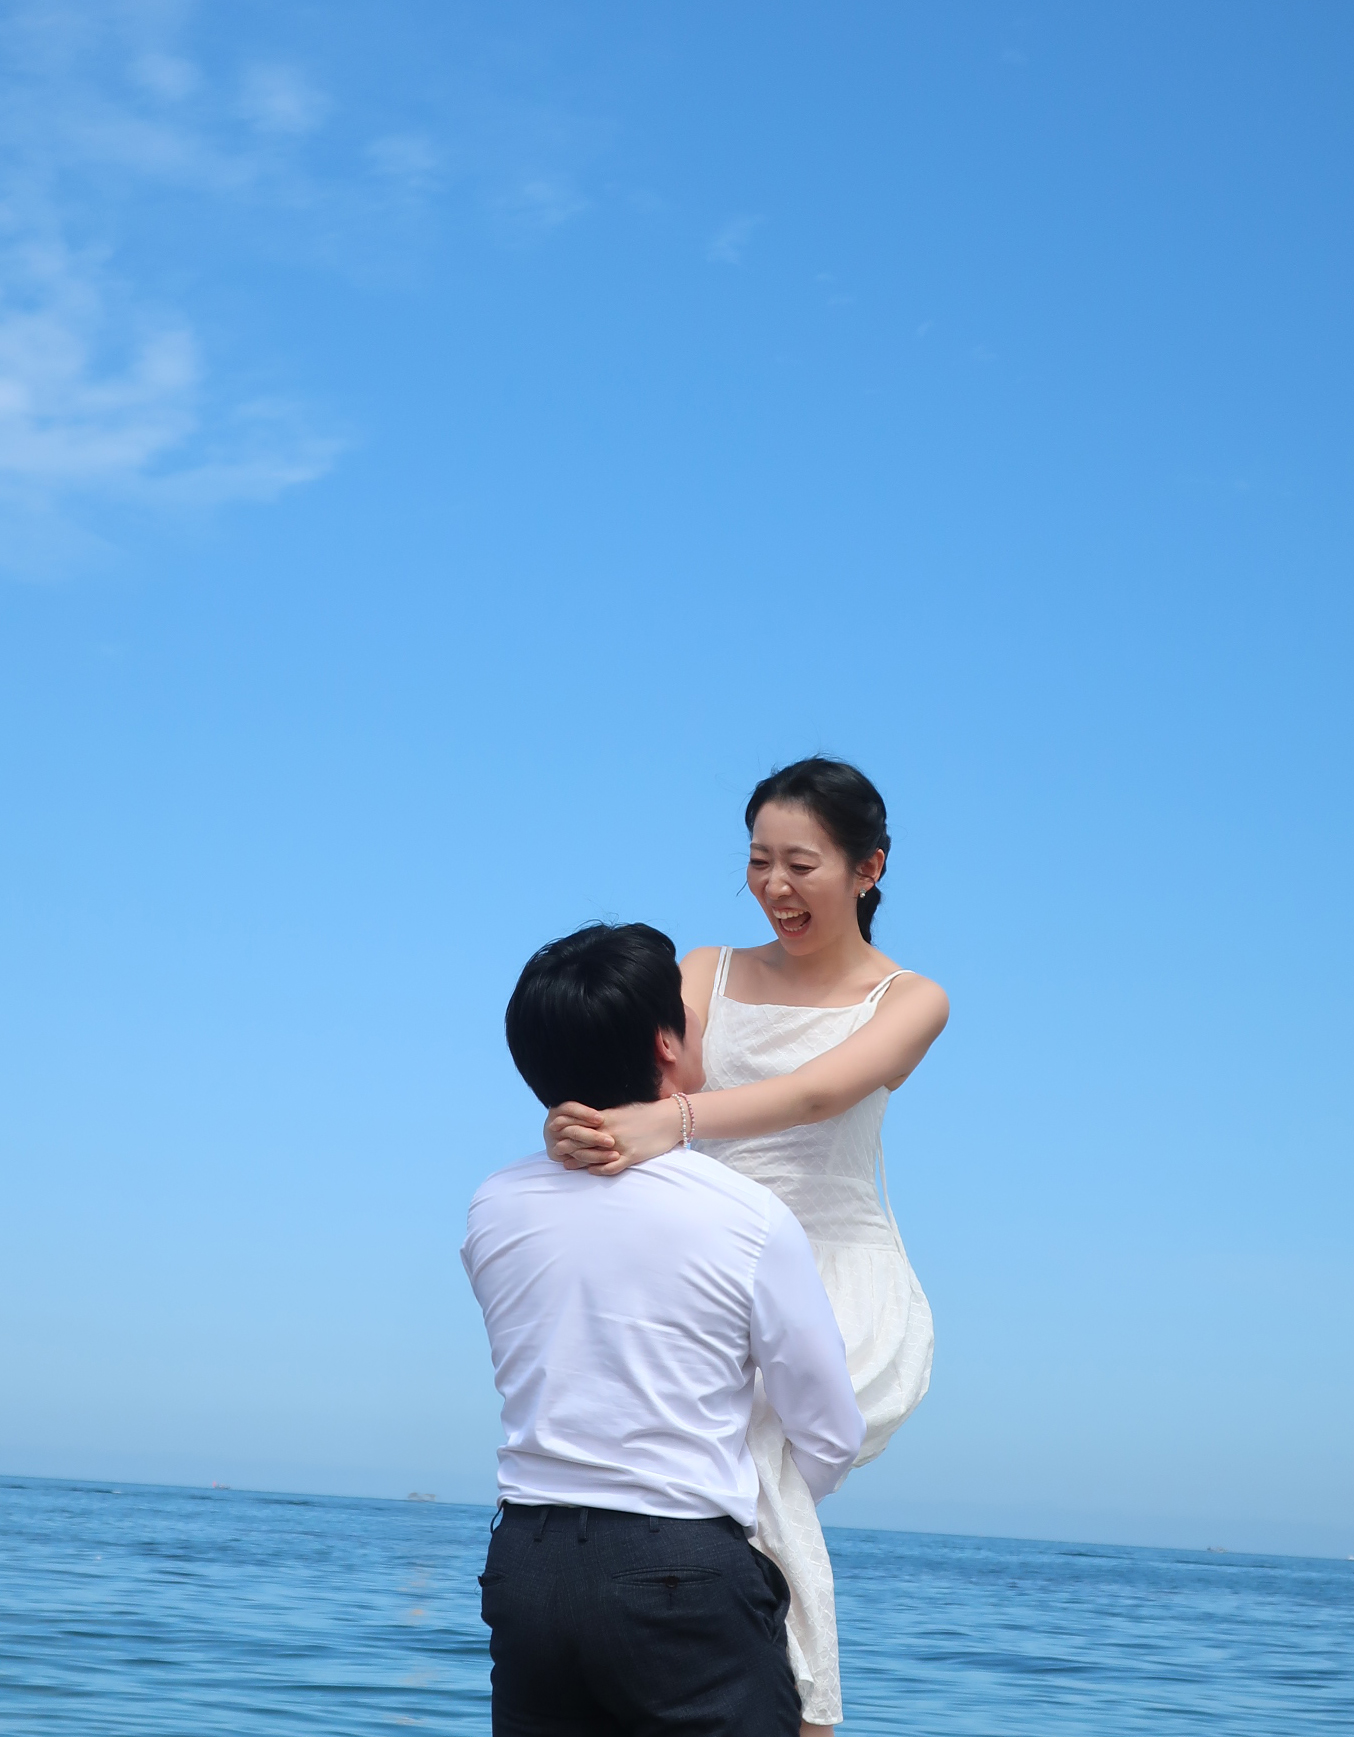
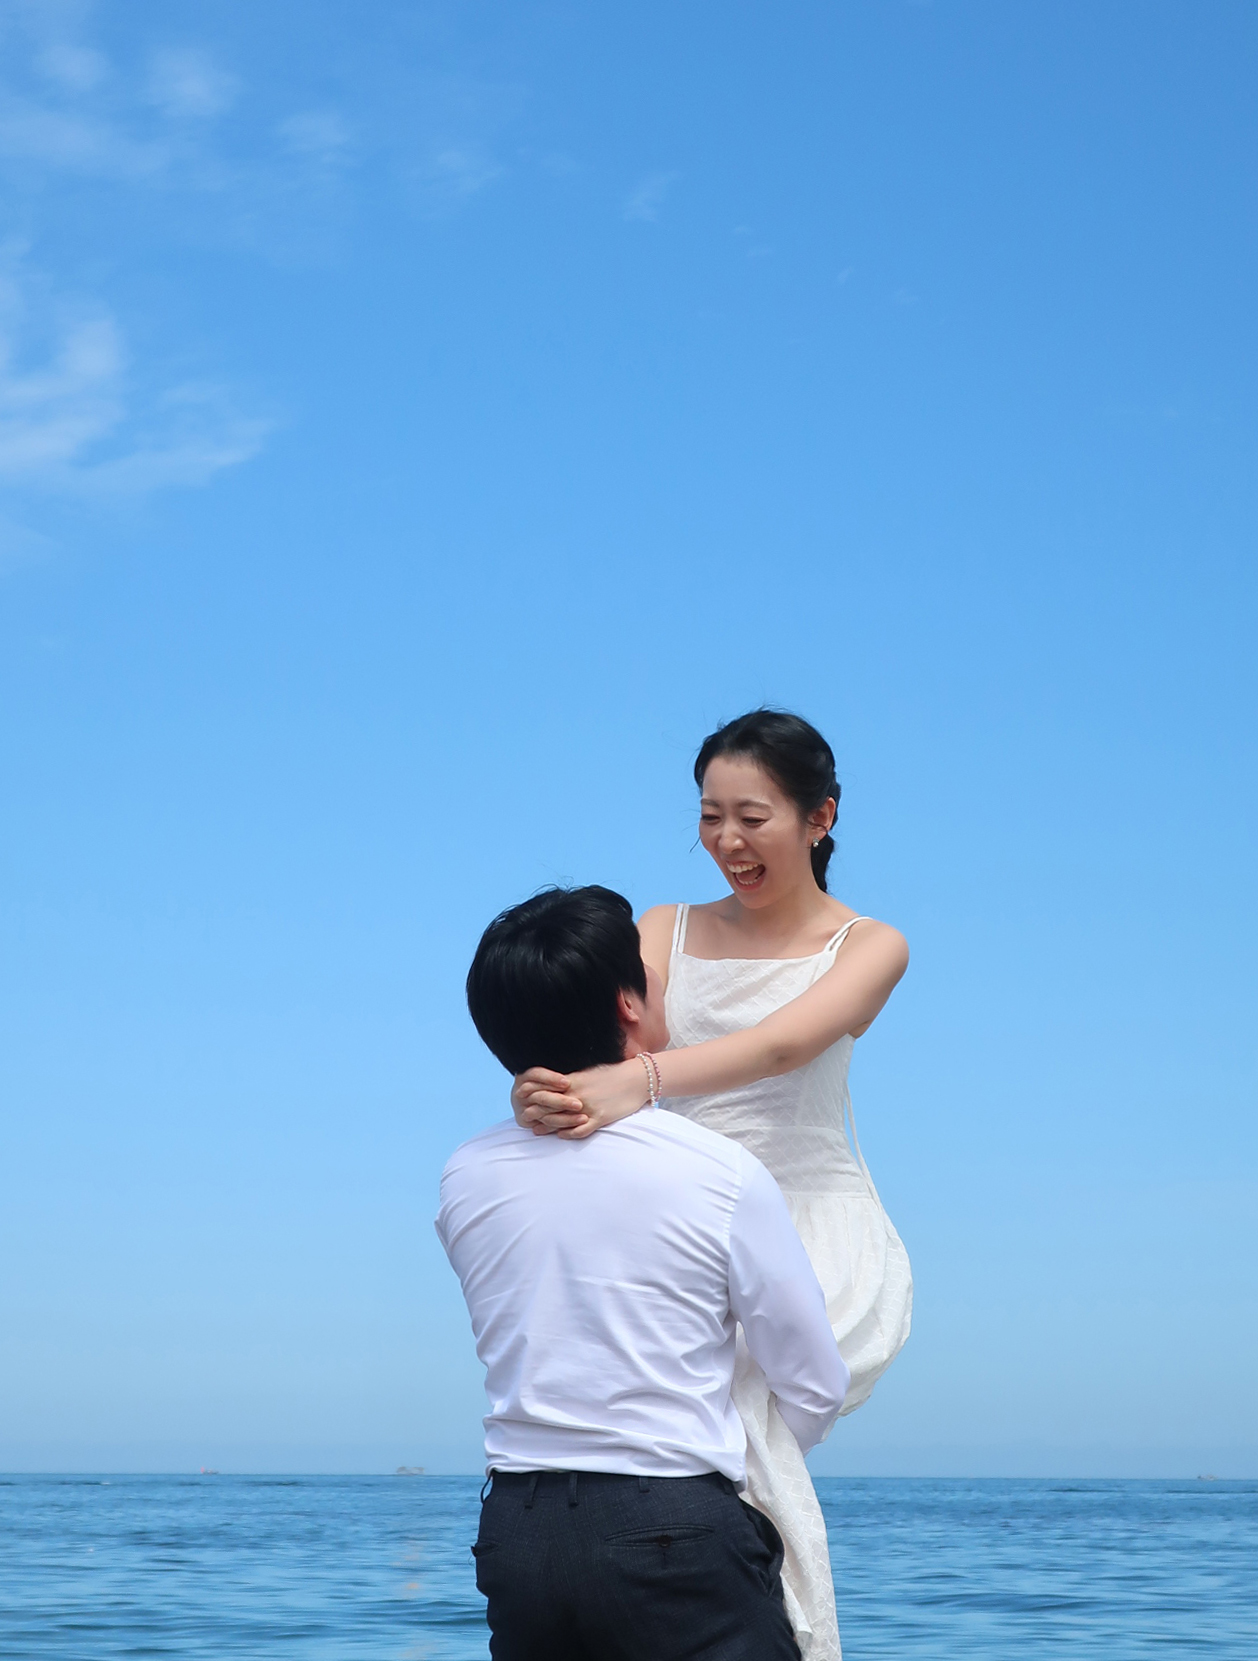
update latest wedding invitation 260505

diff --git a/src/App.jsx b/src/App.jsx
@@ -19,7 +19,7 @@ const GALLERY_4 = "/images/4.jpg"
 const GALLERY_5 = "/images/5.jpg"
 const GALLERY_6 = "/images/6.jpg"
 const GALLERY_7 = "/images/7.jpg"
-const GALLERY_8 = "/images/8.jpg"
+const GALLERY_8 = "/images/10.jpg"
 
 const GALLERY_PHOTOS = [
   GALLERY_0, GALLERY_1, GALLERY_2,
@@ -38,7 +38,7 @@ const MAP_IMAGE = "/images/map.jpg";
 const data = {
   // 메인 커버
   cover: {
-    dateLine: "2026. 09. 06. SUN PM 01:00",
+    dateLine: "2026년 09월 06일 (일) 오후 1시",
     venueLine: "남산골한옥마을 (관훈동 민씨 가옥)",
     groomFirst: "기훈",
     brideFirst: "연지",
@@ -100,7 +100,6 @@ const data = {
           "남산한옥마을 공영주차장",
           "동국대학교 충무로 영상센터 주차장",
           "대한극장 주차장",
-          "전용 주차장이 없으니 가급적 대중교통을 이용해 주세요",
         ],
       },
       {
@@ -115,6 +114,7 @@ const data = {
         lines: [
           "화환은 반입이 불가하여 정중히 사양합니다",
           "따뜻한 마음만 감사히 받겠습니다",
+          "전용주차장이 없으니 가급적 대중교통을 이용해주시기 바랍니다.",
         ],
       },
     ],
@@ -330,41 +330,26 @@ function Cover() {
     <section
       style={{
         position: "relative",
-        padding: "56px 24px 72px",
+        padding: "0",
         textAlign: "center",
         overflow: "hidden",
       }}
     >
       {/* 상단 장식 */}
-      <div style={{ display: "flex", justifyContent: "center", marginBottom: 24 }}>
-        <Botanical size={56} />
-      </div>
 
-      <div
-        style={{
-          fontFamily: fontBody,
-          fontSize: 11,
-          letterSpacing: "0.5em",
-          color: palette.accent,
-          marginBottom: 28,
-        }}
-      >
-        WEDDING INVITATION
-      </div>
+
 
       {/* 메인 사진 */}
       <div
-        style={{
-          margin: "0 auto 36px",
-          maxWidth: 280,
-          border: `1px solid ${palette.rule}`,
-          padding: 8,
-          background: palette.paper,
-          boxShadow: "0 30px 60px -30px rgba(60,40,20,0.25)",
-        }}
-      >
-        <PhotoPlaceholder aspect="3 / 4" src={data.cover.photo} />
-      </div>
+  style={{
+    width: "100%",
+    height: "80vh",
+    backgroundImage: `url(${data.cover.photo})`,
+    backgroundSize: "cover",
+    backgroundPosition: "center",
+    marginBottom: 40,
+  }}
+/>
 
       {/* 이름 */}
       <div
@@ -378,7 +363,7 @@ function Cover() {
       >
         {data.cover.groomFirst}
         <span style={{ color: palette.accent, margin: "0 14px", fontSize: 22 }}>
-          &
+          ♥
         </span>
         {data.cover.brideFirst}
       </div>
@@ -679,6 +664,7 @@ const iconBtn = {
   textDecoration: "none",
 };
 
+/*
 function People() {
   return (
     <section style={{ padding: "0 28px 48px" }}>
@@ -700,6 +686,7 @@ function People() {
     </section>
   );
 }
+  */
 
 const subhead = {
   fontFamily: fontBody,
@@ -1734,122 +1721,7 @@ audio.play()
   );
 }
 
-function fadeInAudio(audio, targetVolume = 0.45, duration = 1800) {
-  if (!audio) return;
 
-  audio.volume = 0;
-  const steps = 30;
-  const stepTime = duration / steps;
-  const volumeStep = targetVolume / steps;
-  let currentStep = 0;
-
-  const timer = setInterval(() => {
-    currentStep += 1;
-    audio.volume = Math.min(targetVolume, volumeStep * currentStep);
-
-    if (currentStep >= steps) {
-      clearInterval(timer);
-    }
-  }, stepTime);
-}
-
-function MusicButton() {
-  const [playing, setPlaying] = useState(false);
-
-  const fadeInAudio = (audio, target = 0.45, duration = 1200) => {
-    audio.volume = 0;
-    const steps = 20;
-    const stepTime = duration / steps;
-    const stepVolume = target / steps;
-    let current = 0;
-
-    const timer = setInterval(() => {
-      current++;
-      audio.volume = Math.min(target, stepVolume * current);
-      if (current >= steps) clearInterval(timer);
-    }, stepTime);
-  };
-
-  useEffect(() => {
-    const audio = document.getElementById("wedding-bgm");
-    if (!audio) return;
-
-    const handlePlay = () => setPlaying(true);
-    const handlePause = () => setPlaying(false);
-
-    audio.addEventListener("play", handlePlay);
-    audio.addEventListener("pause", handlePause);
-    audio.addEventListener("ended", handlePause);
-
-    setPlaying(!audio.paused);
-
-    return () => {
-      audio.removeEventListener("play", handlePlay);
-      audio.removeEventListener("pause", handlePause);
-      audio.removeEventListener("ended", handlePause);
-    };
-  }, []);
-
-  const toggleMusic = () => {
-    const audio = document.getElementById("wedding-bgm");
-    if (!audio) return;
-
-    if (audio.paused) {
-      audio
-        .play()
-        .then(() => {
-          fadeInAudio(audio, 0.45, 1200);
-          setPlaying(true);
-        })
-        .catch(() => {});
-    } else {
-      audio.pause();
-      setPlaying(false);
-    }
-  };
-
-  return (
-    <button
-      onClick={toggleMusic}
-      style={{
-        position: "fixed",
-        top: 26,
-        right: "calc(50% - 190px)",
-        zIndex: 9998,
-        width: 48,
-        height: 48,
-        borderRadius: "50%",
-        border: "1px solid rgba(0,0,0,0.08)",
-        background: "rgba(255,255,255,0.92)",
-        color: "#222",
-        display: "flex",
-        alignItems: "center",
-        justifyContent: "center",
-        cursor: "pointer",
-        boxShadow: "0 4px 14px rgba(0,0,0,0.08)",
-        backdropFilter: "blur(6px)",
-      }}
-    >
-      {playing ? (
-        <div style={{ display: "flex", gap: 4 }}>
-          <div style={{ width: 4, height: 16, background: "#222" }} />
-          <div style={{ width: 4, height: 16, background: "#222" }} />
-        </div>
-      ) : (
-        <div
-          style={{
-            width: 0,
-            height: 0,
-            borderLeft: "12px solid #222",
-            borderTop: "8px solid transparent",
-            borderBottom: "8px solid transparent",
-            marginLeft: 3,
-          }}
-        />
-      )}
-    </button>
-  );
-}
 
 
 /* =========================================================================
@@ -1879,9 +1751,6 @@ export default function WeddingInvitation() {
     >
       <IntroOverlay />
 
-      <audio id="wedding-bgm" src="/audio/music.mp3" loop />
-      <MusicButton />
-
       <div
         id="wedding-card"
         style={{
@@ -1907,7 +1776,7 @@ export default function WeddingInvitation() {
       >
         <Cover />
         <Greeting />
-        <People />
+        {/* <People /> */}
         <CalendarView />
         <Gallery />
         <Venue />